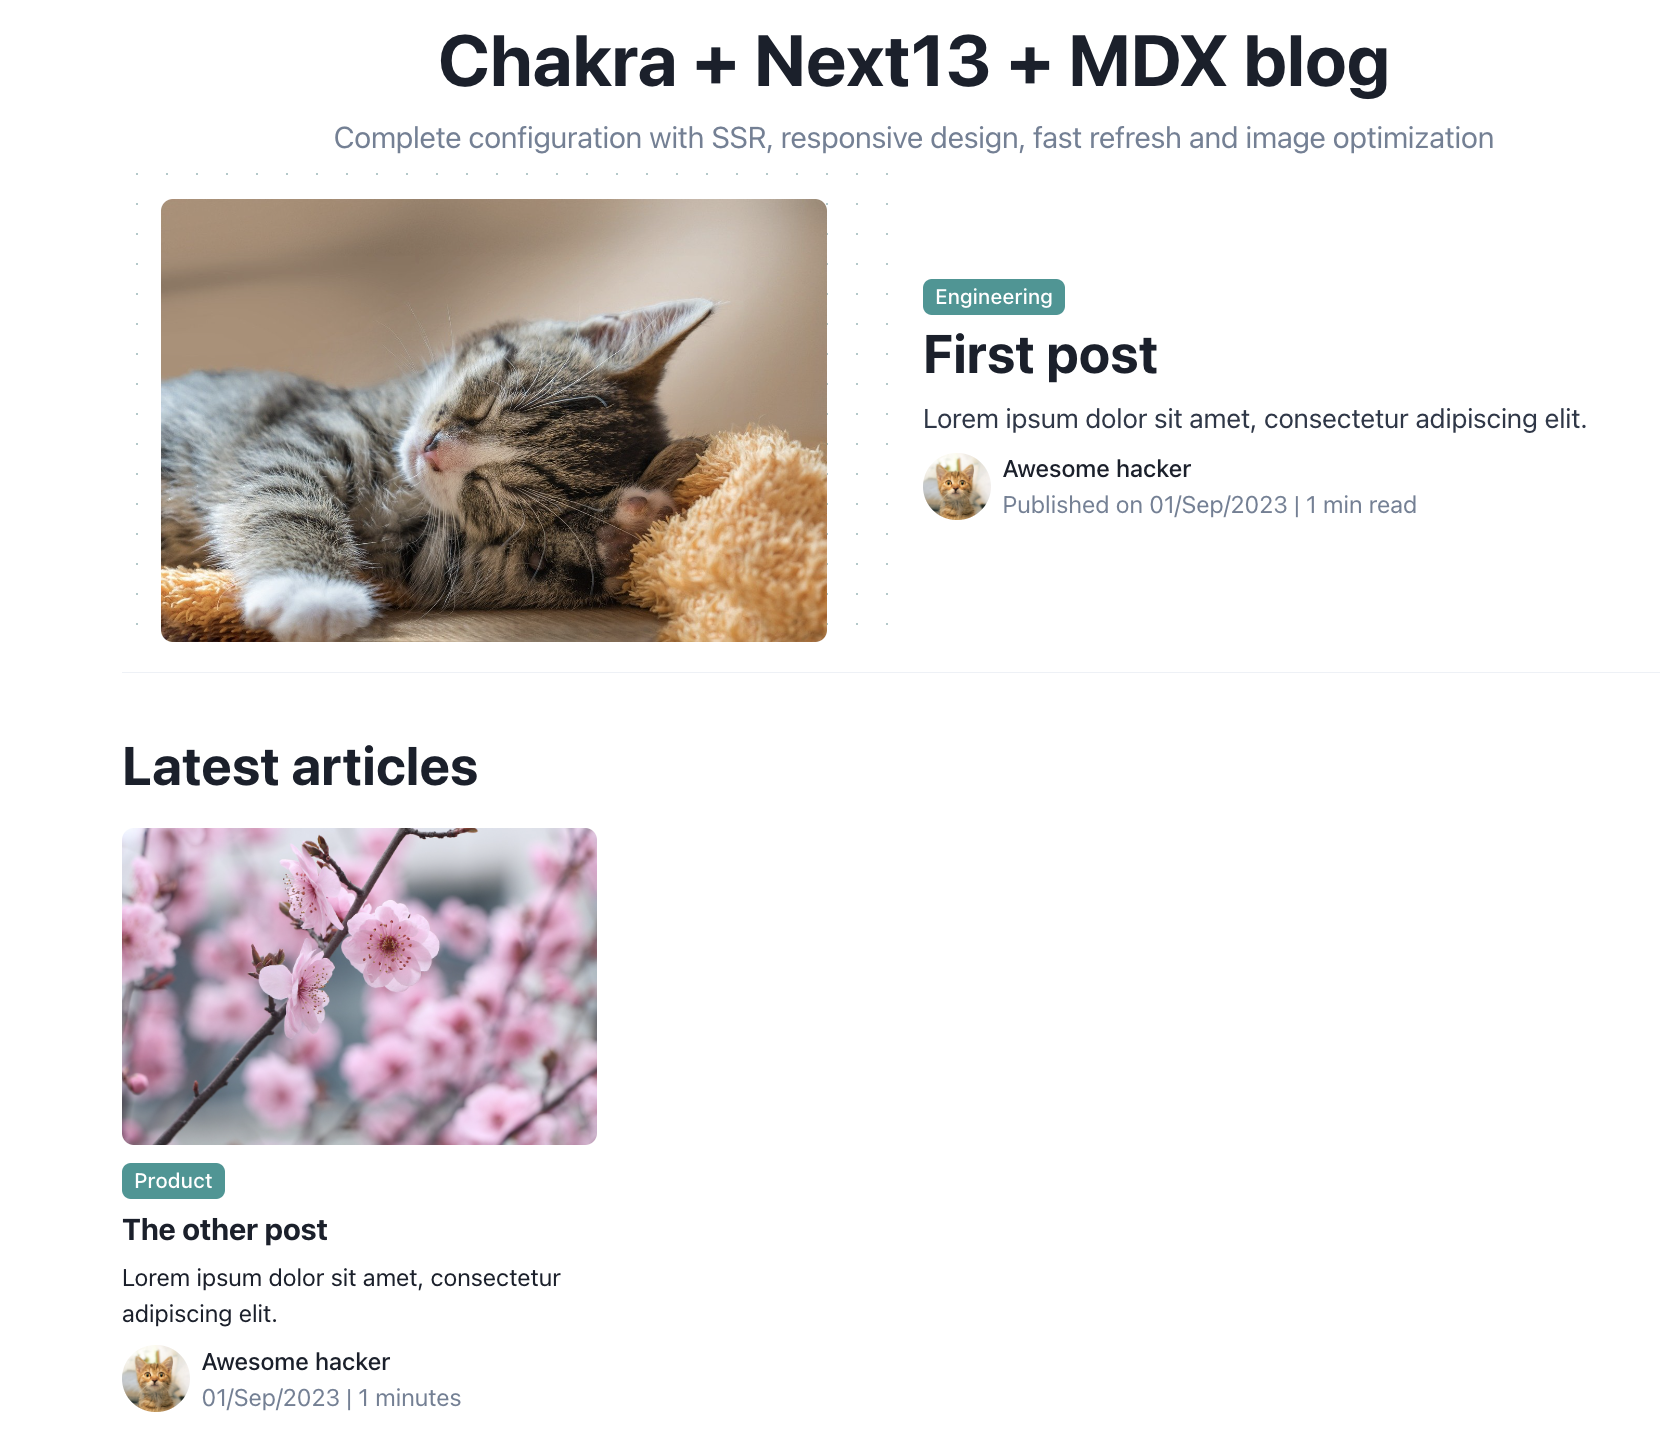
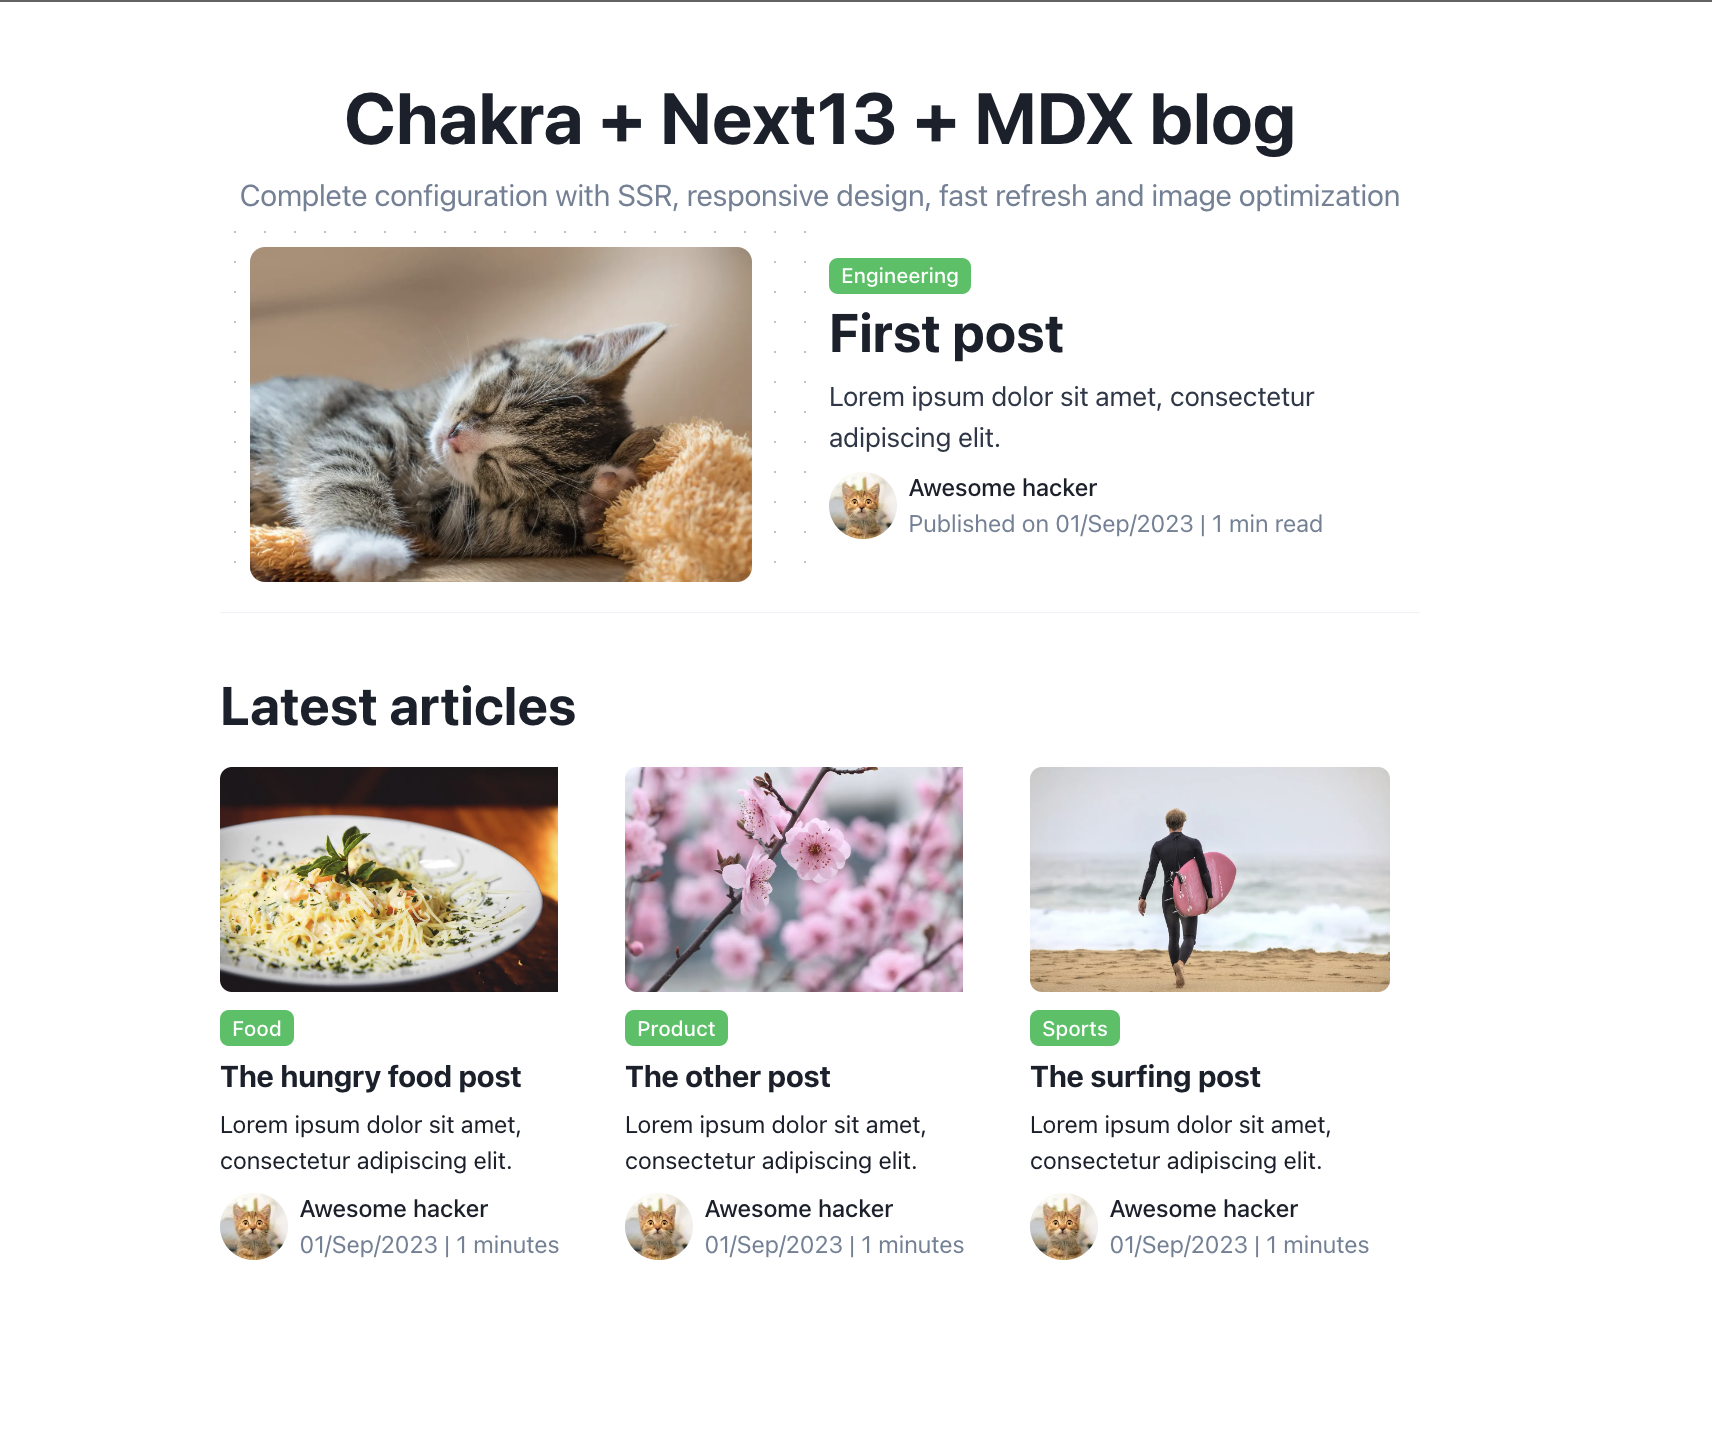
Add screenshot and demo url.

Changed region(s): [[0.0614, 0.0, 0.9524, 0.9819], [0.5223, 0.8591, 0.553, 0.8898]]

diff --git a/app/components/PostPreview.tsx b/app/components/PostPreview.tsx
@@ -26,8 +26,9 @@ export default function ArticleItem(props: { post: IPost }) {
                 sizes="100vw"
                 // Make the image display full width
                 style={{
-                  width: "100%",
-                  height: "auto",
+                  height: "150px",
+
+                  width: "auto",
                 }}
                 width={160}
                 height={90}

diff --git a/app/components/BlogTags.tsx b/app/components/BlogTags.tsx
@@ -13,7 +13,7 @@ export default function BlogTags (props: Props) {
       <HStack spacing={2} marginTop={marginTop}>
         {tags.map((tag) => {
           return (
-            <Tag size="md" variant="solid" colorScheme="teal" key={tag}>
+            <Tag size="md" variant="solid" colorScheme="whatsapp" key={tag}>
               {tag}
             </Tag>
           );

diff --git a/README.md b/README.md
@@ -1,5 +1,7 @@
 # Chakra + Next13 + MDX blog
-This a simple starter template for Chakra + Next13 + MDX blog. 
+This a simple starter template for Chakra + Next13 + MDX blog. Live demo is available [here](https://chakra-next-blog-starter.vercel.app/).
+
+![Blog screenshot](/public/blog.png?raw=True "Blog")
 
 ## Features
 * Posts as `.mdx` directly in the repo with working fast refresh
@@ -21,7 +23,7 @@ Open [http://localhost:3000](http://localhost:3000) with your browser to see the
 All posts are stored in `/app/posts` directory. You can just create new mdx files there. The code assumes the format of the header stays the same.
 
 ##  Documentation
-You can start by reading a tutorial at https://www.uprightly.app/blog/fast-blog and then following the commit history to understand how we got into this state
+You can start by reading a tutorial at https://www.uprightly.app/blog/fast-blog and then following the commit history to understand how we got into this state.
 
 ## Production use
 Currently used on [www.uprightly.app](https://www.uprightly.app).
